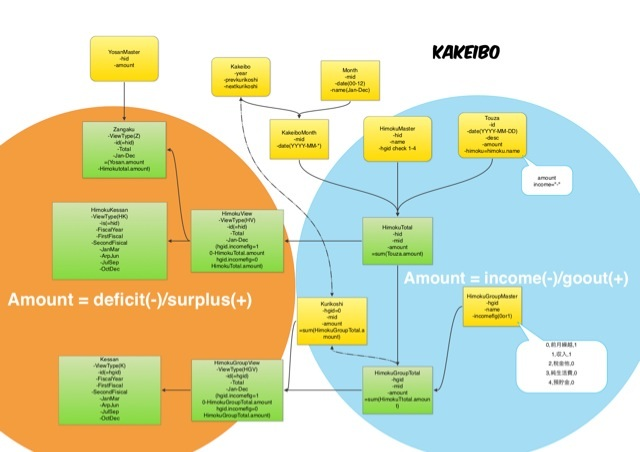
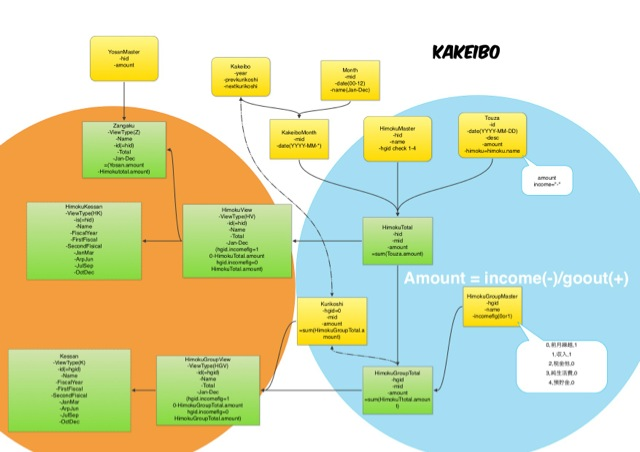
fix issues #3,4,6 README.md

Changed region(s): [[0.0, 0.2788, 0.4688, 0.6814], [0.0, 0.7124, 0.4688, 0.9602], [0.7188, 0.0929, 0.7812, 0.1239]]

diff --git a/README.md b/README.md
@@ -29,11 +29,11 @@ col | desc |
 --- |--- | 
 id |  一意のキー.数字. | 
 Name | 費目名.残額メモではタグと呼ばれるもの. | 
-HimokuGroupid | 費目の対応する費目グループid.1-4までのいずれかの数字. | 
+HimokuGroupid | 費目の対応する費目分類id.1-4までのいずれかの数字. | 
 
-#### 費目グループ
+#### 費目分類
 
-費目グループid | 名前 | 
+費目分類id | 名前 | 
 --- |--- | 
 1 | 収入 | 
 2 | 税金他 | 
@@ -63,7 +63,7 @@ Yosan | 費目の一ヶ月の予算 |
 
 data\[/user\]/YYYYkakeibo.sqlite3
 
-    "Usage: ./build.sh -y YYYY \[-k 前年度繰越金\] \[-u user\[-h\] \[-b\]\]"
+    "Usage: .gbuild.sh -y YYYY [-k 前年度繰越金] [-u user[-h] [-b]]"
 
 option | arguments | desc |
 ---  | ---  | ---  | 
@@ -89,7 +89,7 @@ option | arguments | desc |
 
 import.shを実行する.
 
-    "Usage: ./import.sh [-y YYYY\] \[-u user\] \[-i importtype\] \[-j\]
+    "Usage: ./import.sh [-y YYYY] [-u user] [-i importtype] [-j]
 
 option | arguments | desc |
 ---  | ---  | ---  | 
@@ -117,7 +117,7 @@ Himoku | 費目名.残額メモのタグ |
 
 login.shを実行する.-yオプション省略時は当年家計簿にログインする.
 
-    > ./login.sh \[-y YYYY\] \[-u user\]
+    > ./login.sh [-y YYYY] [-u user]
 
 
 ### コマンド使用例
@@ -177,10 +177,10 @@ Jan-Dec | 1月から12月の費目ごとの予算対する残額金額.残額が
 Col | Desc | 
 ---  | ---  | 
 ViewType | HGV | 
-id | 費目グループid | 
-Name | 費目グループ名 | 
-Total | 費目グループ別年間合計 | 
-Jan-Dec | 1月から12月の費目グループ別集計金額.前月繰越金は、前月の"前月繰越金+収入-(純生活費-税金他-預貯金)" | 
+id | 費目分類id | 
+Name | 費目分類名 | 
+Total | 費目分類別年間合計 | 
+Jan-Dec | 1月から12月の費目分類別集計金額.前月繰越金は、前月の"前月繰越金+収入-(純生活費-税金他-預貯金)" | 
 
 繰越金集計の *翌月の前月繰越金* が、実際の *当月の赤字/黒字* を示している.
 
@@ -193,7 +193,7 @@ Jan-Dec | 1月から12月の費目グループ別集計金額.前月繰越金は
 
 ### 決算(HimokuKessan / Kessan)
 
-費目別決算と収入、税金他など費目グループの決算が取得できる.
+費目別決算と収入、税金他など費目分類の決算が取得できる.
 
 費目別決算
 
@@ -209,7 +209,7 @@ Jan-Dec | 1月から12月の費目グループ別集計金額.前月繰越金は
 
 Col | Desc | 
 ---  | ---  | 
-Name | 費目名または費目グループ名（収入、税金他、純生活費、預貯金) | 
+Name | 費目名または費目分類名（収入、税金他、純生活費、預貯金) | 
 FiscalYear | 12ヶ月決算(1-12月) | 
 FirstFiscal | 上半期決算(1-6月) | 
 SecondFiscal | 下半期決算(7-12月) | 
